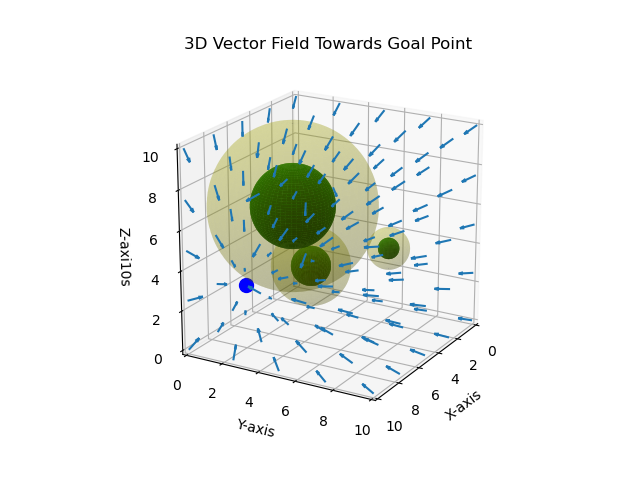
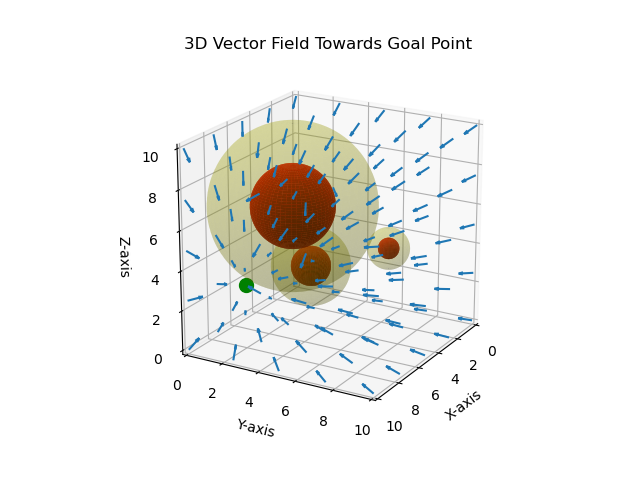
New plots

diff --git a/visualizing_pfields.py b/visualizing_pfields.py
@@ -16,9 +16,9 @@ def create_basic_field():
     U /= norm
     V /= norm
     # Create a quiver plot
-    plt.quiver(X, Y, U, V, color='r')
+    plt.quiver(X, Y, U, V, color='b')
     # Plot the goal point
-    plt.plot(goalPoint[0], goalPoint[1], 'bo', markersize=10)
+    plt.plot(goalPoint[0], goalPoint[1], 'go', markersize=10)
     # Set the limits and labels
     plt.xlim(0, 10)
     plt.ylim(0, 10)
@@ -123,13 +123,13 @@ def create_2D_vector_field_with_obstacles():
     plt.quiver(X, Y, U_norm, V_norm, magnitude, cmap='viridis')
     plt.colorbar(label='Magnitude')
     for obs in obstacles:
-        circle = plt.Circle(obs.position, obs.radius, color='g', alpha=1.0)
+        circle = plt.Circle(obs.position, obs.radius, color='r', alpha=1.0)
         plt.gca().add_artist(circle)
         # Plot influence radius
         influence_circle = plt.Circle(
             obs.position, 2 * obs.radius, color='y', alpha=0.2)
         plt.gca().add_artist(influence_circle)
-    plt.plot(goalPoint[0], goalPoint[1], 'bo', markersize=10)
+    plt.plot(goalPoint[0], goalPoint[1], 'go', markersize=10)
     plt.title('Vector Field with Obstacles')
     plt.xlim(0, 10)
     plt.ylim(0, 10)
@@ -173,7 +173,7 @@ def create_3D_vector_field_with_obstacles():
     # Create a quiver plot
     ax.quiver(X, Y, Z, U, V, W, length=0.75, normalize=True)
     # Plot the goal point
-    ax.scatter(goalPoint[0], goalPoint[1], goalPoint[2], color='b', s=100)
+    ax.scatter(goalPoint[0], goalPoint[1], goalPoint[2], color='g', s=100)
     # Plot obstacles
     for obst in obstacles:
         # Create a sphere for the obstacle
@@ -185,7 +185,7 @@ def create_3D_vector_field_with_obstacles():
             np.outer(np.sin(u), np.sin(v)) + obst.position[1]
         z_sphere = obst.radius * \
             np.outer(np.ones(np.size(u)), np.cos(v)) + obst.position[2]
-        ax.plot_surface(x_sphere, y_sphere, z_sphere, color='g', alpha=1.0)
+        ax.plot_surface(x_sphere, y_sphere, z_sphere, color='r', alpha=1.0)
         # Plot influence radius
         u = np.linspace(0, 2 * np.pi, 100)
         v = np.linspace(0, np.pi, 100)
@@ -203,7 +203,7 @@ def create_3D_vector_field_with_obstacles():
     ax.set_zlim(0, 10)
     ax.set_xlabel('X-axis')
     ax.set_ylabel('Y-axis')
-    ax.set_zlabel('Z-axi10s')
+    ax.set_zlabel('Z-axis')
     ax.set_title('3D Vector Field Towards Goal Point')
     ax.view_init(elev=20, azim=30)  # Set the view angle
     ax.set_box_aspect([1, 1, 1])  # Make the axes equal
@@ -211,6 +211,11 @@ def create_3D_vector_field_with_obstacles():
     # plt.show()
     plt.savefig("3D_vector_field.png")
     print(f"Saved 3D_vector_field.png")
+    # Change the viewing angle and save another plot
+    # Rotate the view
+    ax.view_init(elev=20, azim=150)
+    plt.savefig("3D_vector_field_rotated.png")
+    print(f"Saved 3D_vector_field_rotated.png")
 
 
 def graph_forces():
